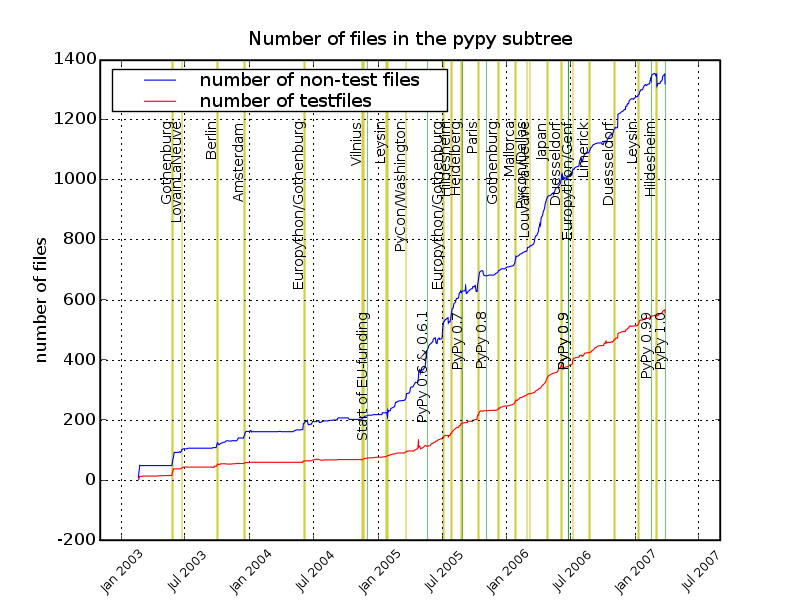
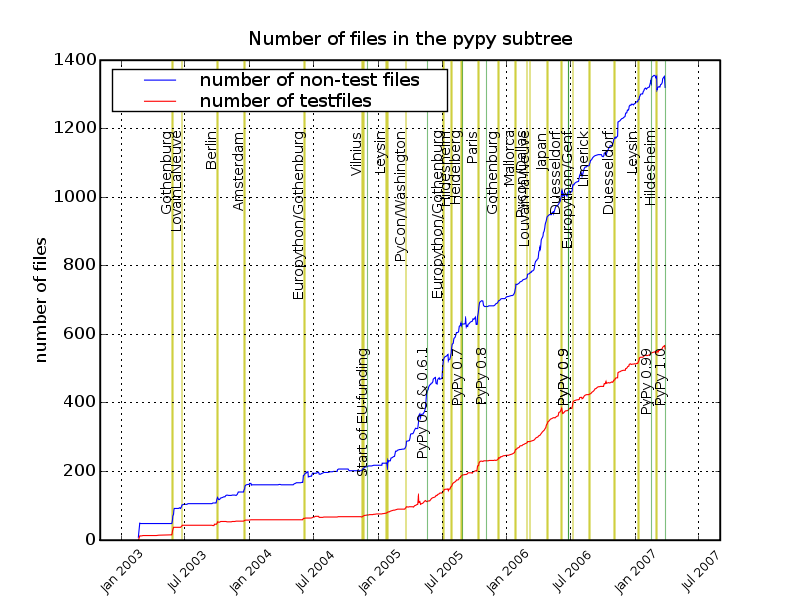
great. the plots improve if I _disable_ the autoscaler. matplotlib sucks.
git-svn-id: http://codespeak.net/svn/pypy/dist@41718 fd0d7bf2-dfb6-0310-8d31-b7ecfe96aada

diff --git a/pypy/doc/statistic/format.py b/pypy/doc/statistic/format.py
@@ -94,7 +94,7 @@ def csv2png(p):
     pylab.xlabel("")
     ticklabels = ax.get_xticklabels()
     pylab.setp(ticklabels, 'rotation', 45, size=9)
-    ax.autoscale_view()
+#    ax.autoscale_view()
     ax.grid(True)
     pylab.title(title)
 
